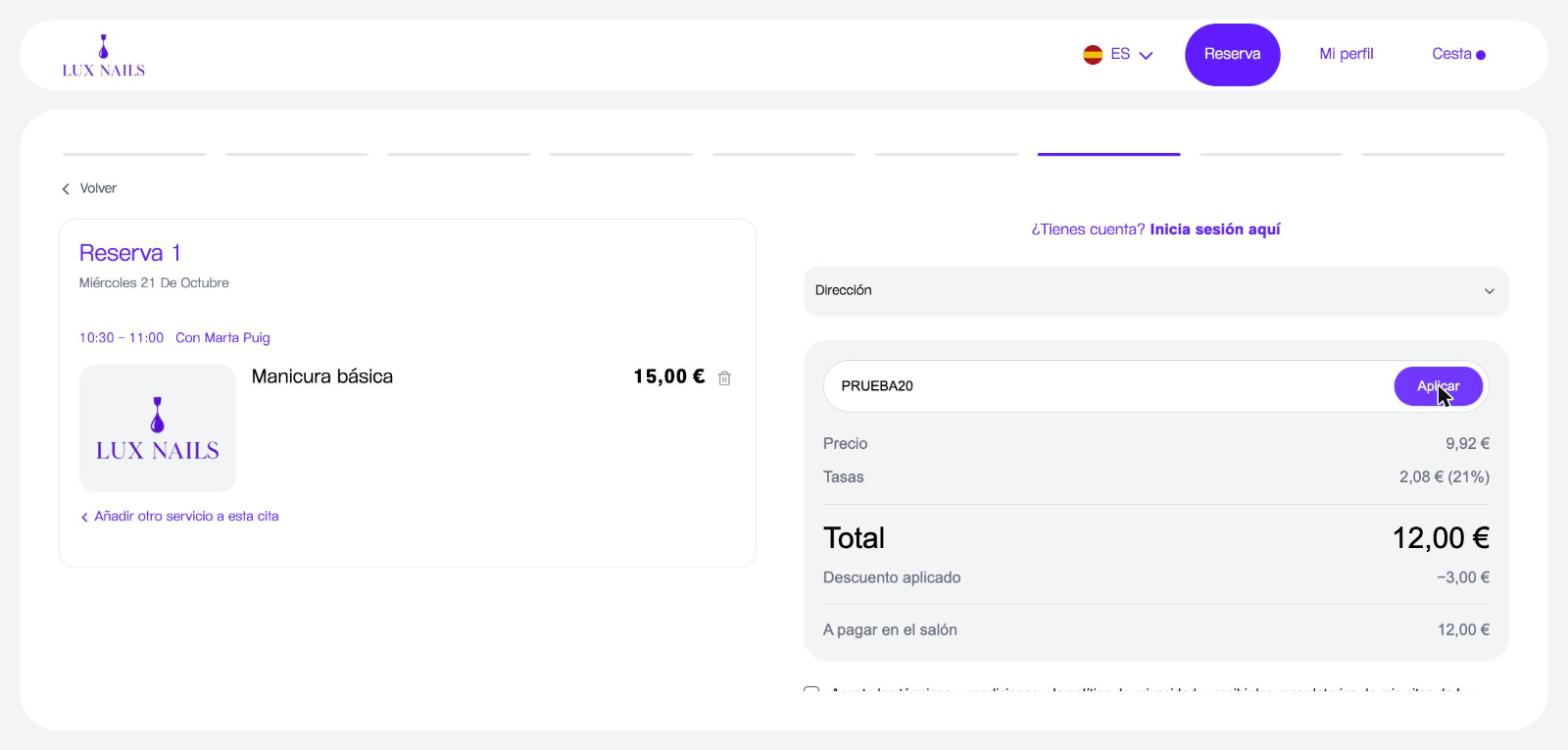
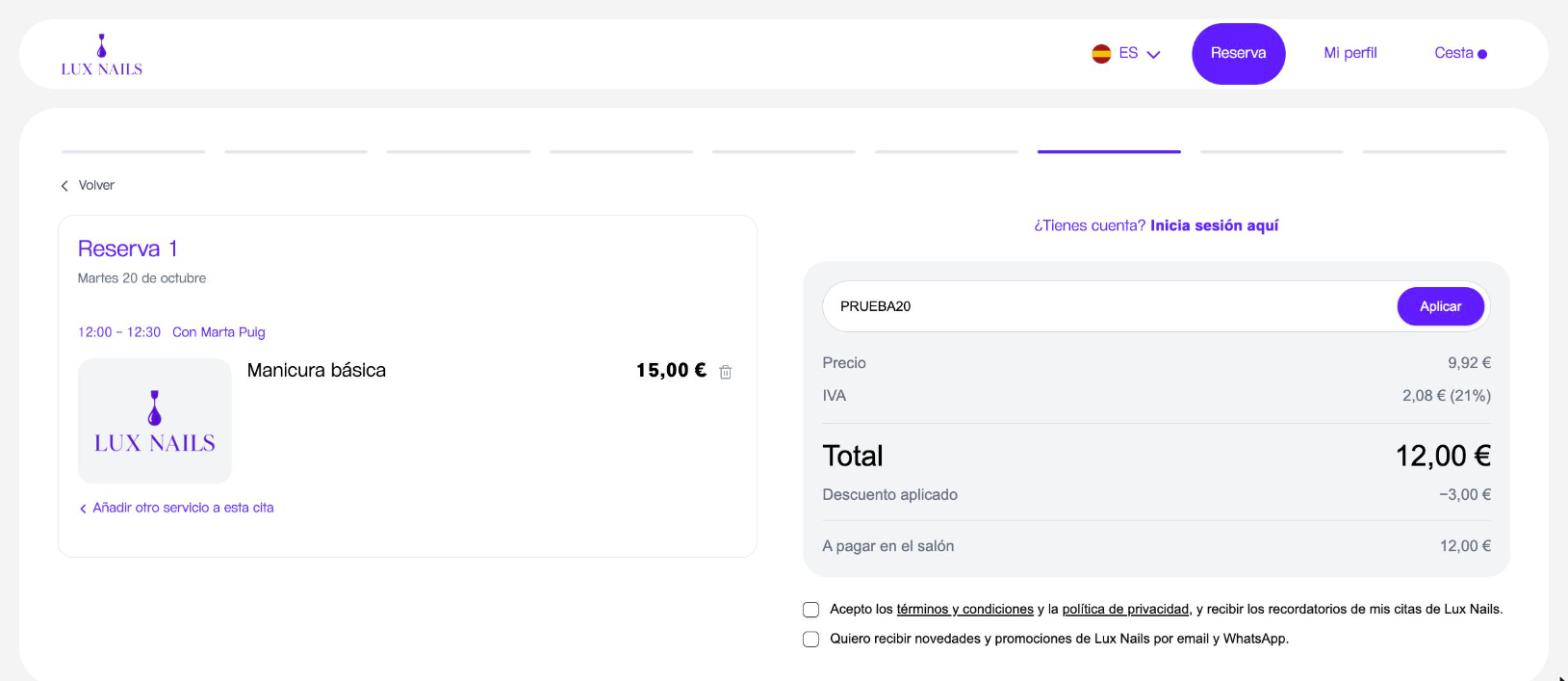
Ayuda: pestañas General y Recargos a domicilio, booking con IVA y «Escoge quién te atiende», cobro al reservar exige Stripe, devoluciones no reabren el pendiente; borrador oculto de Stripe Connect; capturas del booking nuevas
Claude-Session: https://claude.ai/code/session_018L6ejNZidk8d7vFV11LMYm

diff --git a/ayuda/conectar-stripe/index.html b/ayuda/conectar-stripe/index.html
@@ -145,9 +145,9 @@ a.ay-card:hover{border-color:var(--lila);box-shadow:0 6px 20px rgba(99,28,255,.1
 @media(max-width:960px){.ay-wrap{grid-template-columns:1fr;gap:32px}.ay-side{position:static;max-height:none;order:2;border-top:1px solid var(--line);padding-top:24px}}
 @media(max-width:768px){.ay-hero{padding:104px 20px 40px}.ay-hero h1{font-size:30px}.ay-hero p{font-size:15px}.ay-wrap,.ay-index-wrap{padding:36px 20px 64px}.ay-art h2{font-size:24px}.tip{padding:24px 20px 10px}}
 </style>
-<script type="application/ld+json">{"@context": "https://schema.org", "@type": "TechArticle", "headline": "Conectar Stripe para cobrar online", "description": "Paso a paso para conectar tu cuenta de Stripe a Godolphy: claves, webhook, modo de prueba y qué revisar si los pagos no se confirman.", "dateModified": "2026-10-15", "inLanguage": "es", "mainEntityOfPage": "https://www.godolphy.com/ayuda/conectar-stripe/", "publisher": {"@type": "Organization", "name": "Godolphy", "url": "https://www.godolphy.com"}}</script>
+<script type="application/ld+json">{"@context": "https://schema.org", "@type": "TechArticle", "headline": "Conectar Stripe para cobrar online", "description": "Paso a paso para conectar tu cuenta de Stripe a Godolphy: claves, webhook, modo de prueba y qué revisar si los pagos no se confirman.", "dateModified": "2026-10-19", "inLanguage": "es", "mainEntityOfPage": "https://www.godolphy.com/ayuda/conectar-stripe/", "publisher": {"@type": "Organization", "name": "Godolphy", "url": "https://www.godolphy.com"}}</script>
 <script type="application/ld+json">{"@context": "https://schema.org", "@type": "BreadcrumbList", "itemListElement": [{"@type": "ListItem", "position": 1, "name": "Centro de ayuda", "item": "https://www.godolphy.com/ayuda/"}, {"@type": "ListItem", "position": 2, "name": "Conectar Stripe para cobrar online", "item": "https://www.godolphy.com/ayuda/conectar-stripe/"}]}</script>
-<script type="application/ld+json">{"@context": "https://schema.org", "@type": "FAQPage", "mainEntity": [{"@type": "Question", "name": "Me sale «… debe empezar por …» al guardar", "acceptedAnswer": {"@type": "Answer", "text": "Has pegado una clave en el campo que no toca. Las públicas empiezan por pk_, las secretas por sk_ y el endpoint secret por whsec_. Las de producción llevan live y las de prueba test."}}, {"@type": "Question", "name": "Me sale «Stripe dice que la clave no es válida»", "acceptedAnswer": {"@type": "Answer", "text": "La clave secreta está mal copiada o es de otra cuenta. Cópiala de nuevo desde Stripe, entera."}}, {"@type": "Question", "name": "No me deja activar o desactivar el modo de prueba", "acceptedAnswer": {"@type": "Answer", "text": "Para cambiar de modo, el modo al que pasas tiene que tener sus tres claves. El mensaje te dice cuáles faltan."}}, {"@type": "Question", "name": "Las clientas pagan pero la reserva no se confirma", "acceptedAnswer": {"@type": "Answer", "text": "Casi siempre es el webhook. Mira el estado debajo del bloque Webhook de Stripe: si sale el aviso de que la firma no coincide, el Endpoint secret no es el de ese webhook o es de otro modo (producción o prueba). Si no ha llegado ningún aviso, revisa en Stripe que el webhook tenga la URL de tu salón y todos los eventos de la lista."}}, {"@type": "Question", "name": "Una clienta no puede pagar al reservar", "acceptedAnswer": {"@type": "Answer", "text": "Si pides el pago al reservar y Stripe no está conectado, tus clientas no pueden terminar el pago online. Conecta Stripe o desactiva el pago al reservar en Configuración → Pagos."}}]}</script>
+<script type="application/ld+json">{"@context": "https://schema.org", "@type": "FAQPage", "mainEntity": [{"@type": "Question", "name": "Me sale «… debe empezar por …» al guardar", "acceptedAnswer": {"@type": "Answer", "text": "Has pegado una clave en el campo que no toca. Las públicas empiezan por pk_, las secretas por sk_ y el endpoint secret por whsec_. Las de producción llevan live y las de prueba test."}}, {"@type": "Question", "name": "Me sale «Stripe dice que la clave no es válida»", "acceptedAnswer": {"@type": "Answer", "text": "La clave secreta está mal copiada o es de otra cuenta. Cópiala de nuevo desde Stripe, entera."}}, {"@type": "Question", "name": "No me deja activar o desactivar el modo de prueba", "acceptedAnswer": {"@type": "Answer", "text": "Para cambiar de modo, el modo al que pasas tiene que tener sus tres claves. El mensaje te dice cuáles faltan."}}, {"@type": "Question", "name": "Las clientas pagan pero la reserva no se confirma", "acceptedAnswer": {"@type": "Answer", "text": "Casi siempre es el webhook. Mira el estado debajo del bloque Webhook de Stripe: si sale el aviso de que la firma no coincide, el Endpoint secret no es el de ese webhook o es de otro modo (producción o prueba). Si no ha llegado ningún aviso, revisa en Stripe que el webhook tenga la URL de tu salón y todos los eventos de la lista."}}, {"@type": "Question", "name": "Una clienta no puede pagar al reservar", "acceptedAnswer": {"@type": "Answer", "text": "Sin Stripe conectado no se puede cobrar online. Godolphy ya no te deja activar el cobro al reservar sin Stripe, pero si lo tenías activado y desconectaste Stripe, desactívalo en Configuración → Pagos o vuelve a conectar Stripe."}}]}</script>
 </head>
 <body style="overflow-x:hidden">
 
@@ -199,7 +199,7 @@ function toggleMobileNav(){
 <p class="ay-crumbs"><a href="/ayuda/">Centro de ayuda</a> › Cobros y políticas</p>
 <h1>Conectar Stripe para cobrar online</h1>
 <p>Stripe es la pasarela con la que tus clientas pagan con tarjeta al reservar. El dinero va directo a tu cuenta de Stripe.</p>
-<p class="ay-meta">Lectura: 8 min · Actualizado el 15 de octubre de 2026</p>
+<p class="ay-meta">Lectura: 8 min · Actualizado el 19 de octubre de 2026</p>
 </div></section>
 <div class="ay-wrap">
 <nav class="ay-side" aria-label="Índice del centro de ayuda">
@@ -272,9 +272,11 @@ function toggleMobileNav(){
   <p>Necesitas una cuenta de Stripe activada. Si no la tienes, créala en <a href="https://stripe.com/es" rel="noopener" target="_blank">stripe.com</a>. Ten abiertos a la vez el panel de Godolphy y el de Stripe: vas a copiar datos de uno a otro.</p>
 </div>
 
+
+
 <h2 id="donde">Dónde se conecta</h2>
-<p>En el menú lateral, entra en <strong>Configuración</strong> y abre la pestaña <strong>Configuración</strong>. Baja hasta el bloque <strong>Integración Stripe</strong>.</p>
-<figure class="shot has-img"><img src="/ayuda/img/configuracion-stripe.jpg" alt="Configuración → Configuración → Integración Stripe" loading="lazy"/><figcaption>Configuración → Configuración → Integración Stripe</figcaption></figure>
+<p>En el menú lateral, entra en <strong>Configuración</strong> y abre la pestaña <strong>General</strong>. Baja hasta el bloque <strong>Integración Stripe</strong>.</p>
+<figure class="shot has-img"><img src="/ayuda/img/configuracion-stripe.jpg" alt="Configuración → General → Integración Stripe" loading="lazy"/><figcaption>Configuración → General → Integración Stripe</figcaption></figure>
 
 <h2 id="webhook">1. Crea el webhook en Stripe</h2>
 <p>El webhook es el aviso que Stripe envía a Godolphy cada vez que se paga, se retiene o se devuelve un importe. <strong>Sin él, las reservas pagadas con tarjeta no se confirman.</strong></p>
@@ -350,7 +352,7 @@ function toggleMobileNav(){
   <dt>Las clientas pagan pero la reserva no se confirma</dt>
   <dd>Casi siempre es el webhook. Mira el estado debajo del bloque <strong>Webhook de Stripe</strong>: si sale el aviso de que la firma no coincide, el <strong>Endpoint secret</strong> no es el de ese webhook o es de otro modo (producción o prueba). Si no ha llegado ningún aviso, revisa en Stripe que el webhook tenga la URL de tu salón y todos los eventos de la lista.</dd>
   <dt>Una clienta no puede pagar al reservar</dt>
-  <dd>Si pides el pago al reservar y Stripe no está conectado, tus clientas no pueden terminar el pago online. Conecta Stripe o desactiva el pago al reservar en <strong>Configuración → Pagos</strong>.</dd>
+  <dd>Sin Stripe conectado no se puede cobrar online. Godolphy ya no te deja activar el cobro al reservar sin Stripe, pero si lo tenías activado y desconectaste Stripe, desactívalo en <strong>Configuración → Pagos</strong> o vuelve a conectar Stripe.</dd>
 </dl>
 <section class="ay-related"><h2>Artículos relacionados</h2><div class="ay-cards"><a class="ay-card" href="/ayuda/pago-o-deposito/">Cobro al reservar: pago completo o depósito<small>Cobros y políticas</small></a><a class="ay-card" href="/ayuda/politicas-de-cancelacion/">Políticas de cancelación y no-show<small>Cobros y políticas</small></a><a class="ay-card" href="/ayuda/ventas-y-reembolsos/">Cobrar una cita y hacer devoluciones<small>Clientas y reservas</small></a></div></section>
 <div class="ay-help">¿Te has quedado con alguna duda? Escríbenos a <a href="mailto:hello@godolphy.com">hello@godolphy.com</a> y te ayudamos.</div>

diff --git a/ayuda/como-reserva-tu-clienta/index.html b/ayuda/como-reserva-tu-clienta/index.html
@@ -145,7 +145,7 @@ a.ay-card:hover{border-color:var(--lila);box-shadow:0 6px 20px rgba(99,28,255,.1
 @media(max-width:960px){.ay-wrap{grid-template-columns:1fr;gap:32px}.ay-side{position:static;max-height:none;order:2;border-top:1px solid var(--line);padding-top:24px}}
 @media(max-width:768px){.ay-hero{padding:104px 20px 40px}.ay-hero h1{font-size:30px}.ay-hero p{font-size:15px}.ay-wrap,.ay-index-wrap{padding:36px 20px 64px}.ay-art h2{font-size:24px}.tip{padding:24px 20px 10px}}
 </style>
-<script type="application/ld+json">{"@context": "https://schema.org", "@type": "TechArticle", "headline": "Cómo reserva tu clienta paso a paso", "description": "Lo que ve tu clienta en tu página de reservas de Godolphy: a domicilio o en el local, servicio, opciones y extras, profesional, día y hora, y el resumen con el pago.", "dateModified": "2026-10-17", "inLanguage": "es", "mainEntityOfPage": "https://www.godolphy.com/ayuda/como-reserva-tu-clienta/", "publisher": {"@type": "Organization", "name": "Godolphy", "url": "https://www.godolphy.com"}}</script>
+<script type="application/ld+json">{"@context": "https://schema.org", "@type": "TechArticle", "headline": "Cómo reserva tu clienta paso a paso", "description": "Lo que ve tu clienta en tu página de reservas de Godolphy: a domicilio o en el local, servicio, opciones y extras, profesional, día y hora, y el resumen con el pago.", "dateModified": "2026-10-19", "inLanguage": "es", "mainEntityOfPage": "https://www.godolphy.com/ayuda/como-reserva-tu-clienta/", "publisher": {"@type": "Organization", "name": "Godolphy", "url": "https://www.godolphy.com"}}</script>
 <script type="application/ld+json">{"@context": "https://schema.org", "@type": "BreadcrumbList", "itemListElement": [{"@type": "ListItem", "position": 1, "name": "Centro de ayuda", "item": "https://www.godolphy.com/ayuda/"}, {"@type": "ListItem", "position": 2, "name": "Cómo reserva tu clienta paso a paso", "item": "https://www.godolphy.com/ayuda/como-reserva-tu-clienta/"}]}</script>
 <script type="application/ld+json">{"@context": "https://schema.org", "@type": "FAQPage", "mainEntity": [{"@type": "Question", "name": "Mi clienta no ve a una profesional", "acceptedAnswer": {"@type": "Answer", "text": "Esa profesional no tiene asignado el servicio, no trabaja en ese sitio (local o domicilio) o no tiene horario. Revisa sus servicios y sus horarios."}}, {"@type": "Question", "name": "Sale «No hay horas disponibles» todos los días", "acceptedAnswer": {"@type": "Answer", "text": "Las profesionales que hacen ese servicio no tienen horario esos días o ya están ocupadas. Si es a domicilio, revisa también su horario de domicilio y sus zonas."}}]}</script>
 </head>
@@ -199,7 +199,7 @@ function toggleMobileNav(){
 <p class="ay-crumbs"><a href="/ayuda/">Centro de ayuda</a> › Tu web de reservas</p>
 <h1>Cómo reserva tu clienta paso a paso</h1>
 <p>Recorre tu página de reservas como la ve tu clienta, pantalla a pantalla, para saber qué le saldrá y qué tienes que tener configurado.</p>
-<p class="ay-meta">Lectura: 5 min · Actualizado el 17 de octubre de 2026</p>
+<p class="ay-meta">Lectura: 5 min · Actualizado el 19 de octubre de 2026</p>
 </div></section>
 <div class="ay-wrap">
 <nav class="ay-side" aria-label="Índice del centro de ayuda">
@@ -288,18 +288,18 @@ function toggleMobileNav(){
 <figure class="shot has-img"><img src="/ayuda/img/booking-extra-obligatorio.jpg" alt="Una opción obligatoria y la cesta" loading="lazy"/><figcaption>Una opción obligatoria y la cesta</figcaption></figure>
 
 <h3 id="profesional">4. La profesional</h3>
-<p>En <strong>Escoge un profesional</strong> elige a una profesional o <strong>Cualquier profesional disponible</strong>. Solo salen las profesionales que hacen ese servicio en el sitio que ha elegido, local o domicilio.</p>
-<figure class="shot has-img"><img src="/ayuda/img/booking-profesional.jpg" alt="Escoge un profesional" loading="lazy"/><figcaption>Escoge un profesional</figcaption></figure>
+<p>En <strong>Escoge quién te atiende</strong> elige a una profesional o <strong>Cualquier profesional disponible</strong>. Solo salen las profesionales que hacen ese servicio en el sitio que ha elegido, local o domicilio.</p>
+<figure class="shot has-img"><img src="/ayuda/img/booking-profesional.jpg" alt="Escoge quién te atiende" loading="lazy"/><figcaption>Escoge quién te atiende</figcaption></figure>
 
 <h3 id="fecha">5. El día y la hora</h3>
-<p>En <strong>Selecciona fecha y hora</strong> elige el día y una de las horas libres. Los días sin hueco salen en gris. Si un día no tiene horas, verá «No hay horas disponibles».</p>
+<p>En <strong>Selecciona fecha y hora</strong> elige el día y una de las horas libres. Los días sin hueco salen en gris. Empieza por el primer día con horas libres y nunca enseña días pasados. Si un día no tiene horas, verá «No hay horas disponibles».</p>
 <figure class="shot has-img"><img src="/ayuda/img/booking-fecha-hora.jpg" alt="Selecciona fecha y hora" loading="lazy"/><figcaption>Selecciona fecha y hora</figcaption></figure>
 
 <h3 id="resumen">6. El resumen y el pago</h3>
 <p>Al final ve su reserva: el día, la hora, la profesional y los servicios. A la derecha tiene:</p>
 <ul>
   <li><strong>Añade un cupón o tarjeta de regalo</strong>, para aplicar un <a href="/ayuda/cupones/">cupón</a> o una <a href="/ayuda/tarjetas-regalo/">tarjeta regalo</a>.</li>
-  <li>El desglose: <strong>Precio</strong>, <strong>Tasas</strong> (el IVA) y el <strong>Total</strong>. Si aplica un cupón, ya salen con el descuento y debajo ve <strong>Descuento aplicado</strong>.</li>
+  <li>El desglose: <strong>Precio</strong>, <strong>IVA</strong> y el <strong>Total</strong>. Si aplica un cupón, ya salen con el descuento y debajo ve <strong>Descuento aplicado</strong>.</li>
   <li>Lo que paga ahora y lo que paga en el salón, según tu <a href="/ayuda/pago-o-deposito/">cobro al reservar</a>.</li>
   <li>La casilla para aceptar los términos y la política de privacidad, y otra, opcional, para recibir novedades y promociones.</li>
 </ul>

diff --git a/ayuda/pago-o-deposito/index.html b/ayuda/pago-o-deposito/index.html
@@ -145,7 +145,7 @@ a.ay-card:hover{border-color:var(--lila);box-shadow:0 6px 20px rgba(99,28,255,.1
 @media(max-width:960px){.ay-wrap{grid-template-columns:1fr;gap:32px}.ay-side{position:static;max-height:none;order:2;border-top:1px solid var(--line);padding-top:24px}}
 @media(max-width:768px){.ay-hero{padding:104px 20px 40px}.ay-hero h1{font-size:30px}.ay-hero p{font-size:15px}.ay-wrap,.ay-index-wrap{padding:36px 20px 64px}.ay-art h2{font-size:24px}.tip{padding:24px 20px 10px}}
 </style>
-<script type="application/ld+json">{"@context": "https://schema.org", "@type": "TechArticle", "headline": "Cobro al reservar: pago completo o depósito", "description": "Cómo decidir qué paga tu clienta al reservar en Godolphy: nada, el servicio completo o un depósito, y cómo se cobra el resto con la tarjeta guardada.", "dateModified": "2026-10-15", "inLanguage": "es", "mainEntityOfPage": "https://www.godolphy.com/ayuda/pago-o-deposito/", "publisher": {"@type": "Organization", "name": "Godolphy", "url": "https://www.godolphy.com"}}</script>
+<script type="application/ld+json">{"@context": "https://schema.org", "@type": "TechArticle", "headline": "Cobro al reservar: pago completo o depósito", "description": "Cómo decidir qué paga tu clienta al reservar en Godolphy: nada, el servicio completo o un depósito, y cómo se cobra el resto con la tarjeta guardada.", "dateModified": "2026-10-19", "inLanguage": "es", "mainEntityOfPage": "https://www.godolphy.com/ayuda/pago-o-deposito/", "publisher": {"@type": "Organization", "name": "Godolphy", "url": "https://www.godolphy.com"}}</script>
 <script type="application/ld+json">{"@context": "https://schema.org", "@type": "BreadcrumbList", "itemListElement": [{"@type": "ListItem", "position": 1, "name": "Centro de ayuda", "item": "https://www.godolphy.com/ayuda/"}, {"@type": "ListItem", "position": 2, "name": "Cobro al reservar: pago completo o depósito", "item": "https://www.godolphy.com/ayuda/pago-o-deposito/"}]}</script>
 <script type="application/ld+json">{"@context": "https://schema.org", "@type": "FAQPage", "mainEntity": [{"@type": "Question", "name": "Me sale «Solo se puede especificar un tipo de depósito»", "acceptedAnswer": {"@type": "Answer", "text": "Has rellenado el porcentaje y el importe fijo. Deja solo uno."}}, {"@type": "Question", "name": "Me sale «Se requiere un importe de depósito»", "acceptedAnswer": {"@type": "Answer", "text": "Con Pago parcial (depósito) tienes que poner un porcentaje o un importe fijo."}}, {"@type": "Question", "name": "Me pide elegir cuándo cobrar", "acceptedAnswer": {"@type": "Answer", "text": "Si activas el cobro automático, elige una sola opción: 15 minutos después de empezar o al finalizar la hora de la cita."}}, {"@type": "Question", "name": "El resto no se ha cobrado solo", "acceptedAnswer": {"@type": "Answer", "text": "El cobro automático solo funciona si la tarjeta de la clienta quedó guardada al reservar. Con Pago una vez finaliza el servicio, se cobra al pulsar Completada: si nadie la marca, no se cobra. En cualquier caso, puedes cobrarlo a mano desde el detalle de la cita."}}]}</script>
 </head>
@@ -199,7 +199,7 @@ function toggleMobileNav(){
 <p class="ay-crumbs"><a href="/ayuda/">Centro de ayuda</a> › Cobros y políticas</p>
 <h1>Cobro al reservar: pago completo o depósito</h1>
 <p>Decide si tus clientas pagan al reservar, cuánto, y cómo se cobra lo que falte después de la cita.</p>
-<p class="ay-meta">Lectura: 6 min · Actualizado el 15 de octubre de 2026</p>
+<p class="ay-meta">Lectura: 6 min · Actualizado el 19 de octubre de 2026</p>
 </div></section>
 <div class="ay-wrap">
 <nav class="ay-side" aria-label="Índice del centro de ayuda">
@@ -270,7 +270,7 @@ function toggleMobileNav(){
   <li><strong>El servicio completo</strong>.</li>
   <li><strong>Un depósito</strong>: un porcentaje o un importe fijo. El resto se paga después.</li>
 </ul>
-<p>La configuración es la misma para todos tus servicios. Para cobrar online necesitas <a href="/ayuda/conectar-stripe/">conectar Stripe</a>.</p>
+<p>La configuración es la misma para todos tus servicios. Para cobrar online necesitas <a href="/ayuda/conectar-stripe/">conectar Stripe</a>: sin Stripe no puedes activar el cobro al reservar, y tus clientas pagan en el salón.</p>
 
 <h2 id="donde">Dónde se configura</h2>
 <p>En el menú lateral, entra en <strong>Configuración</strong> y abre la pestaña <strong>Pagos</strong>.</p>

diff --git a/ayuda/cupones/index.html b/ayuda/cupones/index.html
@@ -145,7 +145,7 @@ a.ay-card:hover{border-color:var(--lila);box-shadow:0 6px 20px rgba(99,28,255,.1
 @media(max-width:960px){.ay-wrap{grid-template-columns:1fr;gap:32px}.ay-side{position:static;max-height:none;order:2;border-top:1px solid var(--line);padding-top:24px}}
 @media(max-width:768px){.ay-hero{padding:104px 20px 40px}.ay-hero h1{font-size:30px}.ay-hero p{font-size:15px}.ay-wrap,.ay-index-wrap{padding:36px 20px 64px}.ay-art h2{font-size:24px}.tip{padding:24px 20px 10px}}
 </style>
-<script type="application/ld+json">{"@context": "https://schema.org", "@type": "TechArticle", "headline": "Cupones de descuento", "description": "Crea en Godolphy cupones de descuento en euros o en porcentaje, con importe mínimo y fechas, para que tus clientas los usen al reservar online.", "dateModified": "2026-10-17", "inLanguage": "es", "mainEntityOfPage": "https://www.godolphy.com/ayuda/cupones/", "publisher": {"@type": "Organization", "name": "Godolphy", "url": "https://www.godolphy.com"}}</script>
+<script type="application/ld+json">{"@context": "https://schema.org", "@type": "TechArticle", "headline": "Cupones de descuento", "description": "Crea en Godolphy cupones de descuento en euros o en porcentaje, con importe mínimo y fechas, para que tus clientas los usen al reservar online.", "dateModified": "2026-10-19", "inLanguage": "es", "mainEntityOfPage": "https://www.godolphy.com/ayuda/cupones/", "publisher": {"@type": "Organization", "name": "Godolphy", "url": "https://www.godolphy.com"}}</script>
 <script type="application/ld+json">{"@context": "https://schema.org", "@type": "BreadcrumbList", "itemListElement": [{"@type": "ListItem", "position": 1, "name": "Centro de ayuda", "item": "https://www.godolphy.com/ayuda/"}, {"@type": "ListItem", "position": 2, "name": "Cupones de descuento", "item": "https://www.godolphy.com/ayuda/cupones/"}]}</script>
 <script type="application/ld+json">{"@context": "https://schema.org", "@type": "FAQPage", "mainEntity": [{"@type": "Question", "name": "«Ya existe un cupón con este código»", "acceptedAnswer": {"@type": "Answer", "text": "Ya tienes un cupón con ese código, aunque esté borrado. Elige otro."}}, {"@type": "Question", "name": "Una clienta dice que el cupón no le funciona", "acceptedAnswer": {"@type": "Answer", "text": "Revisa las fechas, el importe mínimo y si ya lo había usado (cuando no es reutilizable). Recuerda que no se puede combinar con una tarjeta regalo."}}]}</script>
 </head>
@@ -199,7 +199,7 @@ function toggleMobileNav(){
 <p class="ay-crumbs"><a href="/ayuda/">Centro de ayuda</a> › Marketing</p>
 <h1>Cupones de descuento</h1>
 <p>Crea un código de descuento y compártelo. Tus clientas lo introducen al reservar en tu página de reservas.</p>
-<p class="ay-meta">Lectura: 3 min · Actualizado el 17 de octubre de 2026</p>
+<p class="ay-meta">Lectura: 3 min · Actualizado el 19 de octubre de 2026</p>
 </div></section>
 <div class="ay-wrap">
 <nav class="ay-side" aria-label="Índice del centro de ayuda">
@@ -295,7 +295,7 @@ function toggleMobileNav(){
 <p>En los dos casos, <strong>el desplazamiento de los servicios a domicilio no se descuenta nunca</strong>. Si la reserva tiene varias citas, el descuento se reparte entre ellas, y cada cita guarda el precio con descuento: es el que verás al <a href="/ayuda/ventas-y-reembolsos/">cobrarla</a>.</p>
 
 <h3 id="como-lo-ve">Cómo lo ve tu clienta</h3>
-<p>En el resumen de la reserva escribe el código en <strong>Añade un cupón o tarjeta de regalo</strong> y pulsa <strong>Aplicar</strong>. El <strong>Precio</strong>, las <strong>Tasas</strong> (el IVA) y el <strong>Total</strong> ya salen con el descuento, y debajo ve <strong>Descuento aplicado</strong> con lo que se ahorra.</p>
+<p>En el resumen de la reserva escribe el código en <strong>Añade un cupón o tarjeta de regalo</strong> y pulsa <strong>Aplicar</strong>. El <strong>Precio</strong>, el <strong>IVA</strong> y el <strong>Total</strong> ya salen con el descuento, y debajo ve <strong>Descuento aplicado</strong> con lo que se ahorra.</p>
 <figure class="shot has-img"><img src="/ayuda/img/booking-cupon.jpg" alt="Cupón del 20 % aplicado en el resumen de la reserva" loading="lazy"/><figcaption>Cupón del 20 % aplicado en el resumen de la reserva</figcaption></figure>
 
 <h2 id="editar">Cambiar o borrar un cupón</h2>

diff --git a/ayuda/ventas-y-reembolsos/index.html b/ayuda/ventas-y-reembolsos/index.html
@@ -145,7 +145,7 @@ a.ay-card:hover{border-color:var(--lila);box-shadow:0 6px 20px rgba(99,28,255,.1
 @media(max-width:960px){.ay-wrap{grid-template-columns:1fr;gap:32px}.ay-side{position:static;max-height:none;order:2;border-top:1px solid var(--line);padding-top:24px}}
 @media(max-width:768px){.ay-hero{padding:104px 20px 40px}.ay-hero h1{font-size:30px}.ay-hero p{font-size:15px}.ay-wrap,.ay-index-wrap{padding:36px 20px 64px}.ay-art h2{font-size:24px}.tip{padding:24px 20px 10px}}
 </style>
-<script type="application/ld+json">{"@context": "https://schema.org", "@type": "TechArticle", "headline": "Cobrar una cita y hacer devoluciones", "description": "Cómo cobrar una cita en Godolphy en efectivo, TPV, Bizum o con la tarjeta guardada, dividir el pago, imprimir el justificante y devolver un cobro.", "dateModified": "2026-10-16", "inLanguage": "es", "mainEntityOfPage": "https://www.godolphy.com/ayuda/ventas-y-reembolsos/", "publisher": {"@type": "Organization", "name": "Godolphy", "url": "https://www.godolphy.com"}}</script>
+<script type="application/ld+json">{"@context": "https://schema.org", "@type": "TechArticle", "headline": "Cobrar una cita y hacer devoluciones", "description": "Cómo cobrar una cita en Godolphy en efectivo, TPV, Bizum o con la tarjeta guardada, dividir el pago, imprimir el justificante y devolver un cobro.", "dateModified": "2026-10-19", "inLanguage": "es", "mainEntityOfPage": "https://www.godolphy.com/ayuda/ventas-y-reembolsos/", "publisher": {"@type": "Organization", "name": "Godolphy", "url": "https://www.godolphy.com"}}</script>
 <script type="application/ld+json">{"@context": "https://schema.org", "@type": "BreadcrumbList", "itemListElement": [{"@type": "ListItem", "position": 1, "name": "Centro de ayuda", "item": "https://www.godolphy.com/ayuda/"}, {"@type": "ListItem", "position": 2, "name": "Cobrar una cita y hacer devoluciones", "item": "https://www.godolphy.com/ayuda/ventas-y-reembolsos/"}]}</script>
 <script type="application/ld+json">{"@context": "https://schema.org", "@type": "FAQPage", "mainEntity": [{"@type": "Question", "name": "El botón «Cobrar» está desactivado", "acceptedAnswer": {"@type": "Answer", "text": "No tienes ningún tipo de pago activo. Actívalos en Configuración → Pagos → Tipos de pago."}}, {"@type": "Question", "name": "Me sale «El importe supera lo pendiente»", "acceptedAnswer": {"@type": "Answer", "text": "Estás cobrando más de lo que falta. Revisa el importe."}}, {"@type": "Question", "name": "No me deja devolver un pago con tarjeta desde «Devolver»", "acceptedAnswer": {"@type": "Answer", "text": "Los pagos online con Stripe se devuelven con Reembolsar, y los de tarjeta regalo desde su propio flujo."}}, {"@type": "Question", "name": "No me deja reembolsar el depósito", "acceptedAnswer": {"@type": "Answer", "text": "Si el depósito todavía está retenido y no cobrado, no hay nada que reembolsar: cancela la cita para liberarlo entero."}}]}</script>
 </head>
@@ -199,7 +199,7 @@ function toggleMobileNav(){
 <p class="ay-crumbs"><a href="/ayuda/">Centro de ayuda</a> › Clientas y reservas</p>
 <h1>Cobrar una cita y hacer devoluciones</h1>
 <p>Registra lo que te paga cada clienta, con uno o varios medios, y devuelve un importe cuando haga falta.</p>
-<p class="ay-meta">Lectura: 6 min · Actualizado el 16 de octubre de 2026</p>
+<p class="ay-meta">Lectura: 6 min · Actualizado el 19 de octubre de 2026</p>
 </div></section>
 <div class="ay-wrap">
 <nav class="ay-side" aria-label="Índice del centro de ayuda">
@@ -313,6 +313,7 @@ function toggleMobileNav(){
   <li>Pulsa <strong>Confirmar devolución</strong>. Verás «Devolución registrada».</li>
 </ol>
 <p>Esto <strong>registra</strong> la devolución: el dinero se lo das tú a la clienta.</p>
+<p>Una devolución <strong>no deja la cita pendiente de pago</strong>: el total de la cita baja en lo que has devuelto. Por ejemplo, si cobraste 68,99 € y devuelves 10 €, la cita queda en 58,99 € y pagada. Si la clienta vuelve a hacerse el servicio, crea una cita nueva.</p>
 <h3 id="reembolsar">Pagos online con tarjeta: «Reembolsar»</h3>
 <ol class="steps">
   <li>Junto al <strong>Resumen de pago</strong>, pulsa <strong>Reembolsar</strong>.</li>

diff --git a/ayuda/recargos-por-ubicacion/index.html b/ayuda/recargos-por-ubicacion/index.html
@@ -145,7 +145,7 @@ a.ay-card:hover{border-color:var(--lila);box-shadow:0 6px 20px rgba(99,28,255,.1
 @media(max-width:960px){.ay-wrap{grid-template-columns:1fr;gap:32px}.ay-side{position:static;max-height:none;order:2;border-top:1px solid var(--line);padding-top:24px}}
 @media(max-width:768px){.ay-hero{padding:104px 20px 40px}.ay-hero h1{font-size:30px}.ay-hero p{font-size:15px}.ay-wrap,.ay-index-wrap{padding:36px 20px 64px}.ay-art h2{font-size:24px}.tip{padding:24px 20px 10px}}
 </style>
-<script type="application/ld+json">{"@context": "https://schema.org", "@type": "TechArticle", "headline": "Recargos por tipo de ubicación", "description": "Cómo aplicar en Godolphy un recargo en porcentaje a los servicios a domicilio según el tipo de ubicación: casa, hotel, hospital u otros.", "dateModified": "2026-10-13", "inLanguage": "es", "mainEntityOfPage": "https://www.godolphy.com/ayuda/recargos-por-ubicacion/", "publisher": {"@type": "Organization", "name": "Godolphy", "url": "https://www.godolphy.com"}}</script>
+<script type="application/ld+json">{"@context": "https://schema.org", "@type": "TechArticle", "headline": "Recargos por tipo de ubicación", "description": "Cómo aplicar en Godolphy un recargo en porcentaje a los servicios a domicilio según el tipo de ubicación: casa, hotel, hospital u otros.", "dateModified": "2026-10-19", "inLanguage": "es", "mainEntityOfPage": "https://www.godolphy.com/ayuda/recargos-por-ubicacion/", "publisher": {"@type": "Organization", "name": "Godolphy", "url": "https://www.godolphy.com"}}</script>
 <script type="application/ld+json">{"@context": "https://schema.org", "@type": "BreadcrumbList", "itemListElement": [{"@type": "ListItem", "position": 1, "name": "Centro de ayuda", "item": "https://www.godolphy.com/ayuda/"}, {"@type": "ListItem", "position": 2, "name": "Recargos por tipo de ubicación", "item": "https://www.godolphy.com/ayuda/recargos-por-ubicacion/"}]}</script>
 <script type="application/ld+json">{"@context": "https://schema.org", "@type": "FAQPage", "mainEntity": [{"@type": "Question", "name": "«El porcentaje debe estar entre 0 y 100»", "acceptedAnswer": {"@type": "Answer", "text": "Escribe solo el número, sin el símbolo %, entre 0 y 100."}}, {"@type": "Question", "name": "¿Se aplica a las citas en el local?", "acceptedAnswer": {"@type": "Answer", "text": "No. Solo a las reservas a domicilio."}}]}</script>
 </head>
@@ -199,7 +199,7 @@ function toggleMobileNav(){
 <p class="ay-crumbs"><a href="/ayuda/">Centro de ayuda</a> › Servicio a domicilio</p>
 <h1>Recargos por tipo de ubicación</h1>
 <p>Cobra un porcentaje extra según dónde sea el servicio a domicilio: casa, hotel, hospital u otros.</p>
-<p class="ay-meta">Lectura: 2 min · Actualizado el 13 de octubre de 2026</p>
+<p class="ay-meta">Lectura: 2 min · Actualizado el 19 de octubre de 2026</p>
 </div></section>
 <div class="ay-wrap">
 <nav class="ay-side" aria-label="Índice del centro de ayuda">
@@ -269,11 +269,11 @@ function toggleMobileNav(){
 
 <h2 id="configurar">Configurar los recargos</h2>
 <ol class="steps">
-  <li>En <strong>Configuración</strong>, abre la pestaña <strong>Precios especiales</strong>.</li>
+  <li>En <strong>Configuración</strong>, abre la pestaña <strong>Recargos a domicilio</strong>.</li>
   <li>Escribe el porcentaje de cada tipo, entre 0 y 100. Deja 0 donde no quieras recargo.</li>
   <li>Pulsa <strong>Guardar datos</strong>.</li>
 </ol>
-<figure class="shot has-img"><img src="/ayuda/img/configuracion-precios-especiales.jpg" alt="Configuración → Precios especiales" loading="lazy"/><figcaption>Configuración → Precios especiales</figcaption></figure>
+<figure class="shot has-img"><img src="/ayuda/img/configuracion-precios-especiales.jpg" alt="Configuración → Recargos a domicilio" loading="lazy"/><figcaption>Configuración → Recargos a domicilio</figcaption></figure>
 <div class="callout">
   <strong>Ejemplo</strong>
   <p>Recargo de hotel: 15 %. Una reserva a domicilio en un hotel con un total de 60 € antes de IVA tendrá 9 € de recargo.</p>

diff --git a/ayuda/precio-desplazamiento/index.html b/ayuda/precio-desplazamiento/index.html
@@ -145,7 +145,7 @@ a.ay-card:hover{border-color:var(--lila);box-shadow:0 6px 20px rgba(99,28,255,.1
 @media(max-width:960px){.ay-wrap{grid-template-columns:1fr;gap:32px}.ay-side{position:static;max-height:none;order:2;border-top:1px solid var(--line);padding-top:24px}}
 @media(max-width:768px){.ay-hero{padding:104px 20px 40px}.ay-hero h1{font-size:30px}.ay-hero p{font-size:15px}.ay-wrap,.ay-index-wrap{padding:36px 20px 64px}.ay-art h2{font-size:24px}.tip{padding:24px 20px 10px}}
 </style>
-<script type="application/ld+json">{"@context": "https://schema.org", "@type": "TechArticle", "headline": "Desplazamiento: kilómetros gratis y precio por km", "description": "Configura en Godolphy cuántos kilómetros de desplazamiento son gratis y cuánto cobras por cada km extra en tus servicios a domicilio. Con ejemplo de cálculo.", "dateModified": "2026-10-13", "inLanguage": "es", "mainEntityOfPage": "https://www.godolphy.com/ayuda/precio-desplazamiento/", "publisher": {"@type": "Organization", "name": "Godolphy", "url": "https://www.godolphy.com"}}</script>
+<script type="application/ld+json">{"@context": "https://schema.org", "@type": "TechArticle", "headline": "Desplazamiento: kilómetros gratis y precio por km", "description": "Configura en Godolphy cuántos kilómetros de desplazamiento son gratis y cuánto cobras por cada km extra en tus servicios a domicilio. Con ejemplo de cálculo.", "dateModified": "2026-10-19", "inLanguage": "es", "mainEntityOfPage": "https://www.godolphy.com/ayuda/precio-desplazamiento/", "publisher": {"@type": "Organization", "name": "Godolphy", "url": "https://www.godolphy.com"}}</script>
 <script type="application/ld+json">{"@context": "https://schema.org", "@type": "BreadcrumbList", "itemListElement": [{"@type": "ListItem", "position": 1, "name": "Centro de ayuda", "item": "https://www.godolphy.com/ayuda/"}, {"@type": "ListItem", "position": 2, "name": "Desplazamiento: kilómetros gratis y precio por km", "item": "https://www.godolphy.com/ayuda/precio-desplazamiento/"}]}</script>
 <script type="application/ld+json">{"@context": "https://schema.org", "@type": "FAQPage", "mainEntity": [{"@type": "Question", "name": "«El precio por km debe ser un número válido»", "acceptedAnswer": {"@type": "Answer", "text": "Escribe solo el número, con coma o punto para los céntimos. Por ejemplo, 0,80."}}, {"@type": "Question", "name": "El desplazamiento no se calcula como esperaba", "acceptedAnswer": {"@type": "Answer", "text": "Se mide desde la dirección principal de la profesional. Revisa que sea la correcta en su ficha, en Direcciones → Domicilio."}}]}</script>
 </head>
@@ -199,7 +199,7 @@ function toggleMobileNav(){
 <p class="ay-crumbs"><a href="/ayuda/">Centro de ayuda</a> › Servicio a domicilio</p>
 <h1>Desplazamiento: kilómetros gratis y precio por km</h1>
 <p>Decide cuántos km son gratis y cuánto cobras por cada km de más. Godolphy lo suma solo a cada reserva a domicilio.</p>
-<p class="ay-meta">Lectura: 3 min · Actualizado el 13 de octubre de 2026</p>
+<p class="ay-meta">Lectura: 3 min · Actualizado el 19 de octubre de 2026</p>
 </div></section>
 <div class="ay-wrap">
 <nav class="ay-side" aria-label="Índice del centro de ayuda">
@@ -265,7 +265,7 @@ function toggleMobileNav(){
 <article class="ay-art">
 <h2 id="configurar">Configurar el precio del desplazamiento</h2>
 <ol class="steps">
-  <li>En el menú lateral, entra en <strong>Configuración</strong> y abre la pestaña <strong>Configuración</strong>.</li>
+  <li>En el menú lateral, entra en <strong>Configuración</strong> y abre la pestaña <strong>General</strong>.</li>
   <li>En la tarjeta <strong>Desplazamientos a domicilio</strong>, rellena:
     <ul>
       <li><strong>Radio gratuito de desplazamiento (km)</strong>: los km que no cobras.</li>

diff --git a/scripts/ayuda/articulos/conectar-stripe.html b/scripts/ayuda/articulos/conectar-stripe.html
@@ -5,7 +5,7 @@
   "descripcion": "Paso a paso para conectar tu cuenta de Stripe a Godolphy: claves, webhook, modo de prueba y qué revisar si los pagos no se confirman.",
   "resumen": "Stripe es la pasarela con la que tus clientas pagan con tarjeta al reservar. El dinero va directo a tu cuenta de Stripe.",
   "tiempo": "8 min",
-  "actualizado": "2026-10-15",
+  "actualizado": "2026-10-19",
   "relacionados": ["pago-o-deposito", "politicas-de-cancelacion", "ventas-y-reembolsos"]
 }
 -->
@@ -19,9 +19,15 @@
   <p>Necesitas una cuenta de Stripe activada. Si no la tienes, créala en <a href="https://stripe.com/es" rel="noopener" target="_blank">stripe.com</a>. Ten abiertos a la vez el panel de Godolphy y el de Stripe: vas a copiar datos de uno a otro.</p>
 </div>
 
+<!--pendiente-->
+<!-- Stripe Connect: programado (backend 4364f6c, booking 4e6f1c6, panel 7fcf57a), sin desplegar ni configurar a 19/10. Verificar en directo antes de publicar y rehacer la captura. -->
+<h2 id="connect">Conectar con un clic</h2>
+<p>En <strong>Configuración → Pagos</strong> pulsa <strong>Conectar con Stripe</strong> para crear tu cuenta, o <strong>Ya tengo cuenta de Stripe</strong> si ya tienes una. Los cobros llegan directamente a tu cuenta de Stripe y Godolphy no se queda ninguna comisión. Las claves manuales siguen disponibles en «Avanzado: claves manuales de Stripe».</p>
+<!--/pendiente-->
+
 <h2 id="donde">Dónde se conecta</h2>
-<p>En el menú lateral, entra en <strong>Configuración</strong> y abre la pestaña <strong>Configuración</strong>. Baja hasta el bloque <strong>Integración Stripe</strong>.</p>
-<figure class="shot" data-shot="configuracion-stripe"><figcaption>Configuración → Configuración → Integración Stripe</figcaption></figure>
+<p>En el menú lateral, entra en <strong>Configuración</strong> y abre la pestaña <strong>General</strong>. Baja hasta el bloque <strong>Integración Stripe</strong>.</p>
+<figure class="shot" data-shot="configuracion-stripe"><figcaption>Configuración → General → Integración Stripe</figcaption></figure>
 
 <h2 id="webhook">1. Crea el webhook en Stripe</h2>
 <p>El webhook es el aviso que Stripe envía a Godolphy cada vez que se paga, se retiene o se devuelve un importe. <strong>Sin él, las reservas pagadas con tarjeta no se confirman.</strong></p>
@@ -97,5 +103,5 @@
   <dt>Las clientas pagan pero la reserva no se confirma</dt>
   <dd>Casi siempre es el webhook. Mira el estado debajo del bloque <strong>Webhook de Stripe</strong>: si sale el aviso de que la firma no coincide, el <strong>Endpoint secret</strong> no es el de ese webhook o es de otro modo (producción o prueba). Si no ha llegado ningún aviso, revisa en Stripe que el webhook tenga la URL de tu salón y todos los eventos de la lista.</dd>
   <dt>Una clienta no puede pagar al reservar</dt>
-  <dd>Si pides el pago al reservar y Stripe no está conectado, tus clientas no pueden terminar el pago online. Conecta Stripe o desactiva el pago al reservar en <strong>Configuración → Pagos</strong>.</dd>
+  <dd>Sin Stripe conectado no se puede cobrar online. Godolphy ya no te deja activar el cobro al reservar sin Stripe, pero si lo tenías activado y desconectaste Stripe, desactívalo en <strong>Configuración → Pagos</strong> o vuelve a conectar Stripe.</dd>
 </dl>

diff --git a/scripts/ayuda/articulos/como-reserva-tu-clienta.html b/scripts/ayuda/articulos/como-reserva-tu-clienta.html
@@ -6,7 +6,7 @@
   "resumen": "Recorre tu página de reservas como la ve tu clienta, pantalla a pantalla, para saber qué le saldrá y qué tienes que tener configurado.",
   "buscar": "booking reserva online web de reservas clienta pasos cesta pago domicilio local",
   "tiempo": "5 min",
-  "actualizado": "2026-10-17",
+  "actualizado": "2026-10-19",
   "relacionados": ["enlace-de-reservas", "extras-de-servicio", "pago-o-deposito"]
 }
 -->
@@ -36,18 +36,18 @@
 <figure class="shot" data-shot="booking-extra-obligatorio"><figcaption>Una opción obligatoria y la cesta</figcaption></figure>
 
 <h3 id="profesional">4. La profesional</h3>
-<p>En <strong>Escoge un profesional</strong> elige a una profesional o <strong>Cualquier profesional disponible</strong>. Solo salen las profesionales que hacen ese servicio en el sitio que ha elegido, local o domicilio.</p>
-<figure class="shot" data-shot="booking-profesional"><figcaption>Escoge un profesional</figcaption></figure>
+<p>En <strong>Escoge quién te atiende</strong> elige a una profesional o <strong>Cualquier profesional disponible</strong>. Solo salen las profesionales que hacen ese servicio en el sitio que ha elegido, local o domicilio.</p>
+<figure class="shot" data-shot="booking-profesional"><figcaption>Escoge quién te atiende</figcaption></figure>
 
 <h3 id="fecha">5. El día y la hora</h3>
-<p>En <strong>Selecciona fecha y hora</strong> elige el día y una de las horas libres. Los días sin hueco salen en gris. Si un día no tiene horas, verá «No hay horas disponibles».</p>
+<p>En <strong>Selecciona fecha y hora</strong> elige el día y una de las horas libres. Los días sin hueco salen en gris. Empieza por el primer día con horas libres y nunca enseña días pasados. Si un día no tiene horas, verá «No hay horas disponibles».</p>
 <figure class="shot" data-shot="booking-fecha-hora"><figcaption>Selecciona fecha y hora</figcaption></figure>
 
 <h3 id="resumen">6. El resumen y el pago</h3>
 <p>Al final ve su reserva: el día, la hora, la profesional y los servicios. A la derecha tiene:</p>
 <ul>
   <li><strong>Añade un cupón o tarjeta de regalo</strong>, para aplicar un <a href="/ayuda/cupones/">cupón</a> o una <a href="/ayuda/tarjetas-regalo/">tarjeta regalo</a>.</li>
-  <li>El desglose: <strong>Precio</strong>, <strong>Tasas</strong> (el IVA) y el <strong>Total</strong>. Si aplica un cupón, ya salen con el descuento y debajo ve <strong>Descuento aplicado</strong>.</li>
+  <li>El desglose: <strong>Precio</strong>, <strong>IVA</strong> y el <strong>Total</strong>. Si aplica un cupón, ya salen con el descuento y debajo ve <strong>Descuento aplicado</strong>.</li>
   <li>Lo que paga ahora y lo que paga en el salón, según tu <a href="/ayuda/pago-o-deposito/">cobro al reservar</a>.</li>
   <li>La casilla para aceptar los términos y la política de privacidad, y otra, opcional, para recibir novedades y promociones.</li>
 </ul>

diff --git a/scripts/ayuda/articulos/cupones.html b/scripts/ayuda/articulos/cupones.html
@@ -5,7 +5,7 @@
   "descripcion": "Crea en Godolphy cupones de descuento en euros o en porcentaje, con importe mínimo y fechas, para que tus clientas los usen al reservar online.",
   "resumen": "Crea un código de descuento y compártelo. Tus clientas lo introducen al reservar en tu página de reservas.",
   "tiempo": "3 min",
-  "actualizado": "2026-10-17",
+  "actualizado": "2026-10-19",
   "relacionados": ["tarjetas-regalo", "enlace-de-reservas", "clientas"]
 }
 -->
@@ -42,7 +42,7 @@
 <p>En los dos casos, <strong>el desplazamiento de los servicios a domicilio no se descuenta nunca</strong>. Si la reserva tiene varias citas, el descuento se reparte entre ellas, y cada cita guarda el precio con descuento: es el que verás al <a href="/ayuda/ventas-y-reembolsos/">cobrarla</a>.</p>
 
 <h3 id="como-lo-ve">Cómo lo ve tu clienta</h3>
-<p>En el resumen de la reserva escribe el código en <strong>Añade un cupón o tarjeta de regalo</strong> y pulsa <strong>Aplicar</strong>. El <strong>Precio</strong>, las <strong>Tasas</strong> (el IVA) y el <strong>Total</strong> ya salen con el descuento, y debajo ve <strong>Descuento aplicado</strong> con lo que se ahorra.</p>
+<p>En el resumen de la reserva escribe el código en <strong>Añade un cupón o tarjeta de regalo</strong> y pulsa <strong>Aplicar</strong>. El <strong>Precio</strong>, el <strong>IVA</strong> y el <strong>Total</strong> ya salen con el descuento, y debajo ve <strong>Descuento aplicado</strong> con lo que se ahorra.</p>
 <figure class="shot" data-shot="booking-cupon"><figcaption>Cupón del 20 % aplicado en el resumen de la reserva</figcaption></figure>
 
 <h2 id="editar">Cambiar o borrar un cupón</h2>

diff --git a/scripts/ayuda/articulos/recargos-por-ubicacion.html b/scripts/ayuda/articulos/recargos-por-ubicacion.html
@@ -5,7 +5,7 @@
   "descripcion": "Cómo aplicar en Godolphy un recargo en porcentaje a los servicios a domicilio según el tipo de ubicación: casa, hotel, hospital u otros.",
   "resumen": "Cobra un porcentaje extra según dónde sea el servicio a domicilio: casa, hotel, hospital u otros.",
   "tiempo": "2 min",
-  "actualizado": "2026-10-13",
+  "actualizado": "2026-10-19",
   "relacionados": ["precio-desplazamiento", "zonas-de-domicilio", "activar-servicio-a-domicilio"]
 }
 -->
@@ -16,11 +16,11 @@
 
 <h2 id="configurar">Configurar los recargos</h2>
 <ol class="steps">
-  <li>En <strong>Configuración</strong>, abre la pestaña <strong>Precios especiales</strong>.</li>
+  <li>En <strong>Configuración</strong>, abre la pestaña <strong>Recargos a domicilio</strong>.</li>
   <li>Escribe el porcentaje de cada tipo, entre 0 y 100. Deja 0 donde no quieras recargo.</li>
   <li>Pulsa <strong>Guardar datos</strong>.</li>
 </ol>
-<figure class="shot" data-shot="configuracion-precios-especiales"><figcaption>Configuración → Precios especiales</figcaption></figure>
+<figure class="shot" data-shot="configuracion-precios-especiales"><figcaption>Configuración → Recargos a domicilio</figcaption></figure>
 <div class="callout">
   <strong>Ejemplo</strong>
   <p>Recargo de hotel: 15 %. Una reserva a domicilio en un hotel con un total de 60 € antes de IVA tendrá 9 € de recargo.</p>

diff --git a/scripts/ayuda/articulos/pago-o-deposito.html b/scripts/ayuda/articulos/pago-o-deposito.html
@@ -5,7 +5,7 @@
   "descripcion": "Cómo decidir qué paga tu clienta al reservar en Godolphy: nada, el servicio completo o un depósito, y cómo se cobra el resto con la tarjeta guardada.",
   "resumen": "Decide si tus clientas pagan al reservar, cuánto, y cómo se cobra lo que falte después de la cita.",
   "tiempo": "6 min",
-  "actualizado": "2026-10-15",
+  "actualizado": "2026-10-19",
   "relacionados": ["conectar-stripe", "politicas-de-cancelacion", "ventas-y-reembolsos"]
 }
 -->
@@ -17,7 +17,7 @@
   <li><strong>El servicio completo</strong>.</li>
   <li><strong>Un depósito</strong>: un porcentaje o un importe fijo. El resto se paga después.</li>
 </ul>
-<p>La configuración es la misma para todos tus servicios. Para cobrar online necesitas <a href="/ayuda/conectar-stripe/">conectar Stripe</a>.</p>
+<p>La configuración es la misma para todos tus servicios. Para cobrar online necesitas <a href="/ayuda/conectar-stripe/">conectar Stripe</a>: sin Stripe no puedes activar el cobro al reservar, y tus clientas pagan en el salón.</p>
 
 <h2 id="donde">Dónde se configura</h2>
 <p>En el menú lateral, entra en <strong>Configuración</strong> y abre la pestaña <strong>Pagos</strong>.</p>
